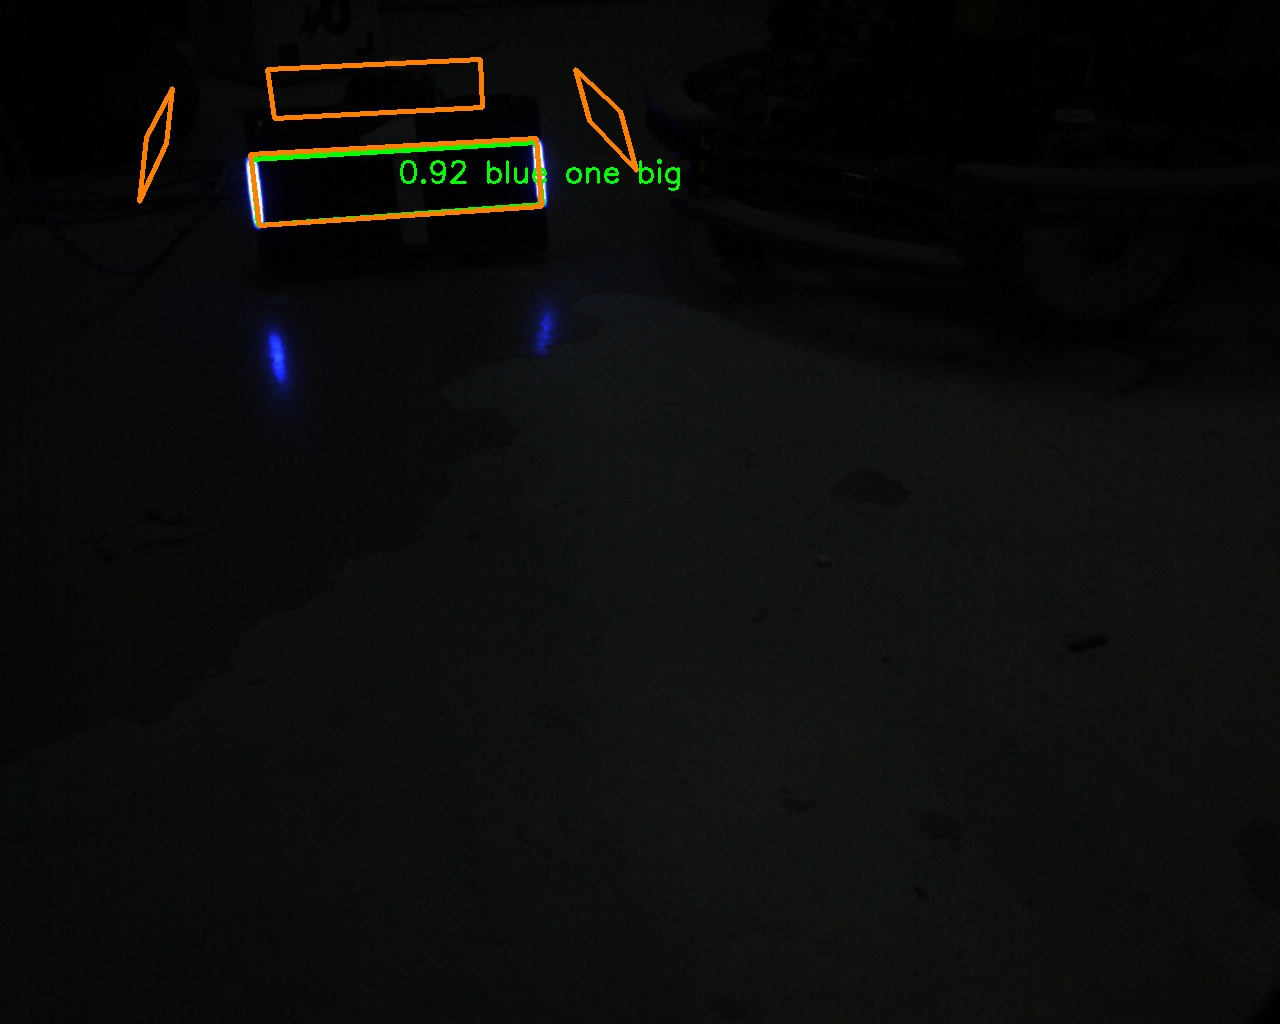
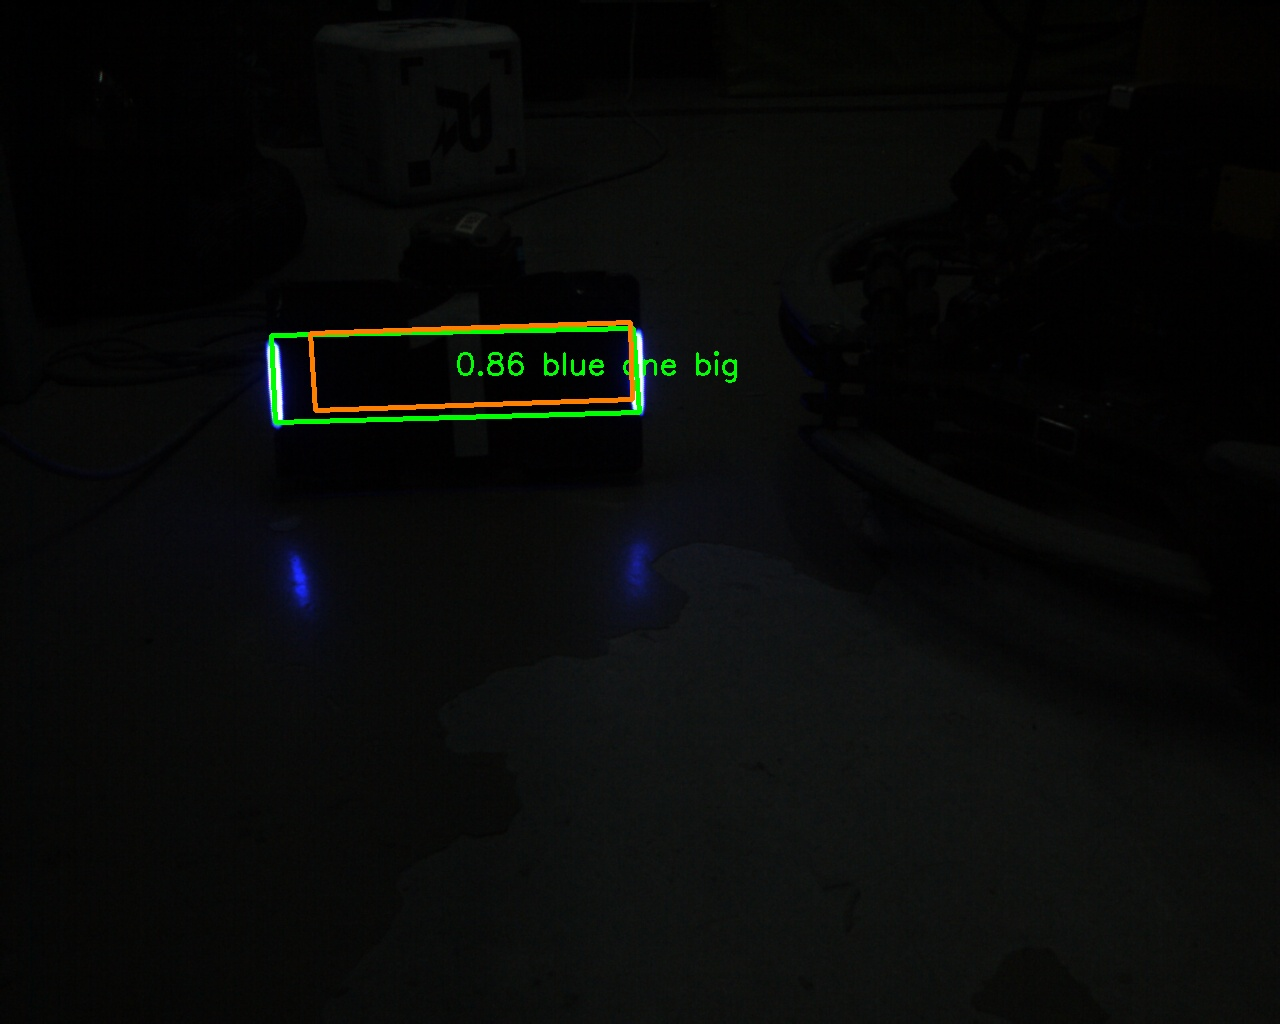
fix: M4 重投影只画与检测最近匹配的装甲板（原来整车 4 块板全投影太乱）
- 按与检测框的平均像素距离筛选，只画最近的那块
- 验收：重投影 100% 像素落在检测框内（原来 48%）
- FIX_RECORD.md 同步更新验证数据，截图更新为本次运行（868 帧）产物

diff --git a/src/sp_vision/src/bag_replay_node.cpp b/src/sp_vision/src/bag_replay_node.cpp
@@ -158,12 +158,28 @@ private:
           tools::draw_text(vis, info, armor.center, {0, 255, 0});
         }
         // M4: 把跟踪目标重投影回像素画上（橙色），与检测框（绿色）重合 = PnP+位姿正确
-        if (!targets.empty()) {
+        // 整车 4 块板全部投影太乱，只画与当前检测平均像素距离最近的那块
+        if (!targets.empty() && !armors.empty()) {
           const auto & target = targets.front();
+          std::vector<cv::Point2f> best_pts;
+          double best_dist = 1e9;
           for (const auto & xyza : target.armor_xyza_list()) {
             auto pts = solver_->reproject_armor(
               xyza.head<3>(), xyza[3], target.armor_type, target.name);
-            tools::draw_points(vis, pts, {0, 128, 255}, 3);
+            for (const auto & armor : armors) {
+              double sum = 0;
+              for (size_t i = 0; i < pts.size() && i < armor.points.size(); ++i) {
+                sum += cv::norm(pts[i] - armor.points[i]);
+              }
+              double mean = sum / pts.size();
+              if (mean < best_dist) {
+                best_dist = mean;
+                best_pts = pts;
+              }
+            }
+          }
+          if (!best_pts.empty()) {
+            tools::draw_points(vis, best_pts, {0, 128, 255}, 3);
           }
         }
         auto shot_path =

diff --git a/FIX_RECORD.md b/FIX_RECORD.md
@@ -191,7 +191,7 @@ source install/setup.bash && ros2 bag play bags/move_translate_bag --loop
 
 - **状态机与配置严格吻合**：detecting 连续 5 帧命中（`min_detect_count=5`）转 tracking；目标出视野后 temp_lost 满 15 帧（`max_temp_lost_count=15`）转 lost；再检出后重新 detecting→tracking。状态分布：tracking 433 / detecting 89 / temp_lost 68 / lost 56
 - **世界系位置合理且稳定**：目标静止场景下 `pos≈(1.46, -0.05, -0.31)`，速度≈0，稳定段波动 ±0.03m，无系统性漂移
-- **截图验证**：跟踪帧截图中橙色重投影约 48% 像素落在检测框内（其余是目标机器人另外 3 块不可见装甲板的重投影），可见板重投影与检测框重合
+- **截图验证**：跟踪帧截图中橙色重投影（只画与检测平均像素距离最近的那块板，整车 4 块板全投影太乱）**100% 像素落在检测框内**，可见板重投影与检测框重合
 
 ```text
 PAIRED [frame 645] ... armors=1 | state=tracking | pos=(1.48,-0.05,-0.31) vel=(-0.01,0.00,0.00) | yaw=-0.04 w=-0.05 r=0.19
@@ -199,7 +199,7 @@ PAIRED [frame 645] ... armors=1 | state=tracking | pos=(1.48,-0.05,-0.31) vel=(-
 
 ![M4 跟踪 + 重投影（第540帧，tracking）](shots/m4_frame0540_tracking_armors1.jpg)
 
-![M4 temp_lost 状态（第90帧）](shots/m4_frame0090_temp_lost_armors0.jpg)
+![M4 temp_lost 状态（第240帧）](shots/m4_frame0240_temp_lost_armors0.jpg)
 
 **修改的文件**:
 - `src/bag_replay_node.cpp` — 构造 Solver+Tracker、每帧解算跟踪、日志扩展、重投影截图
